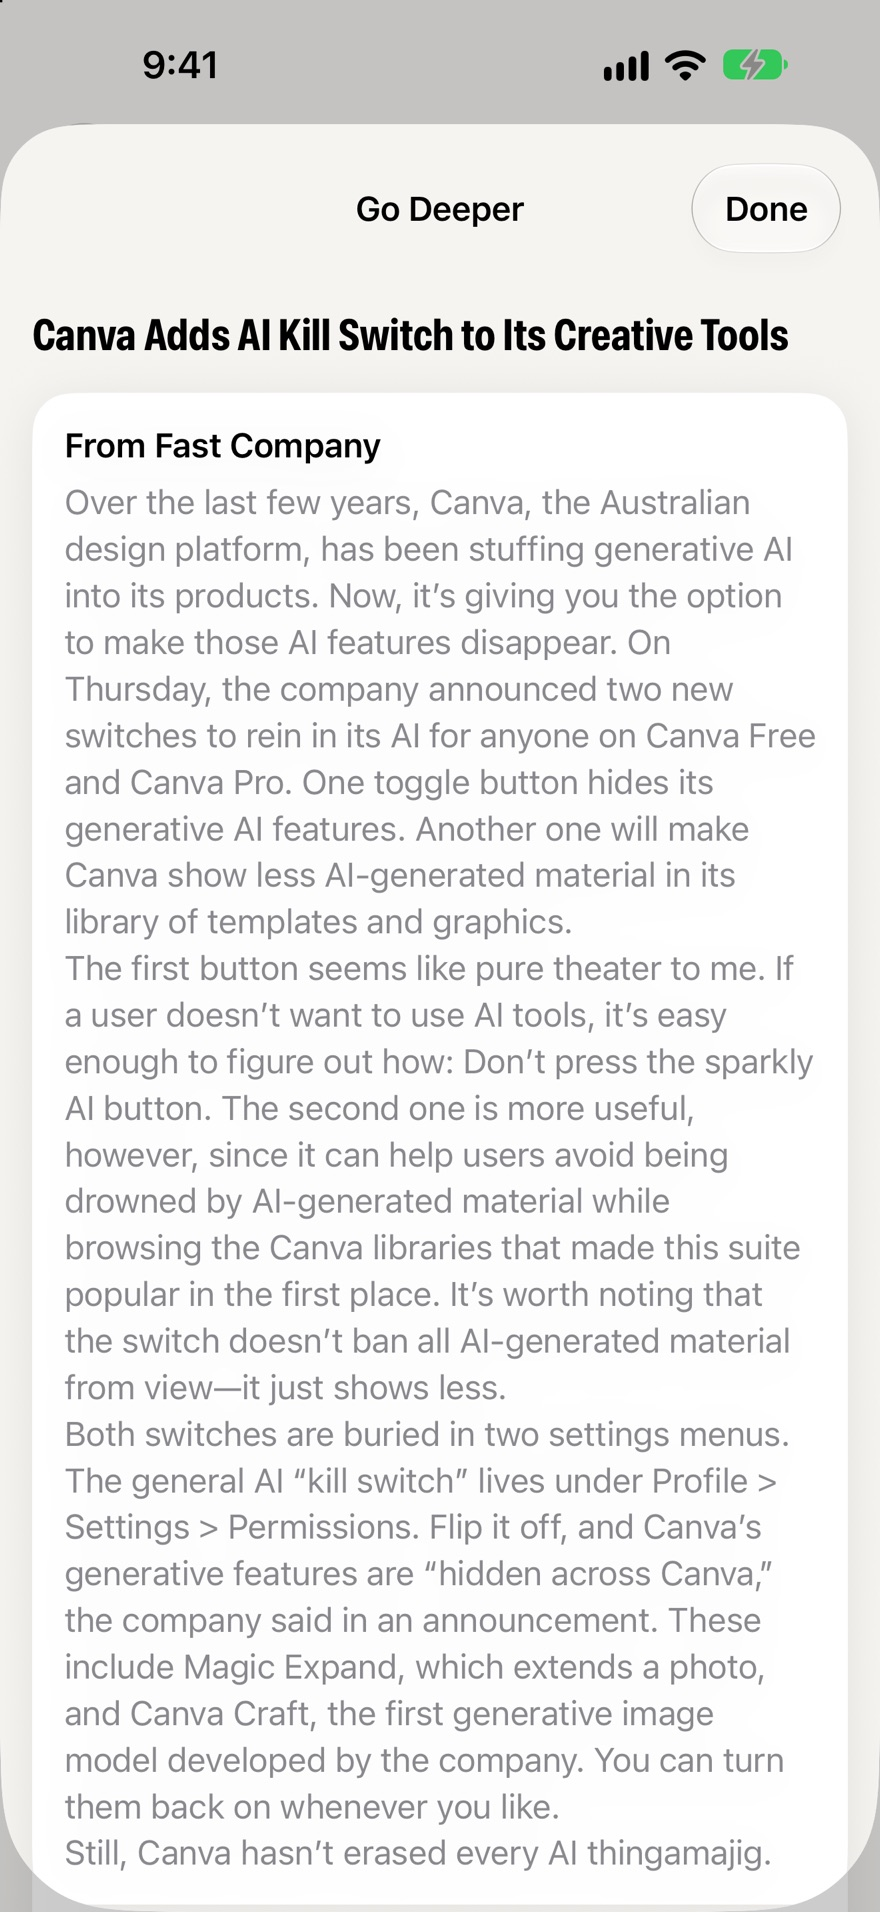
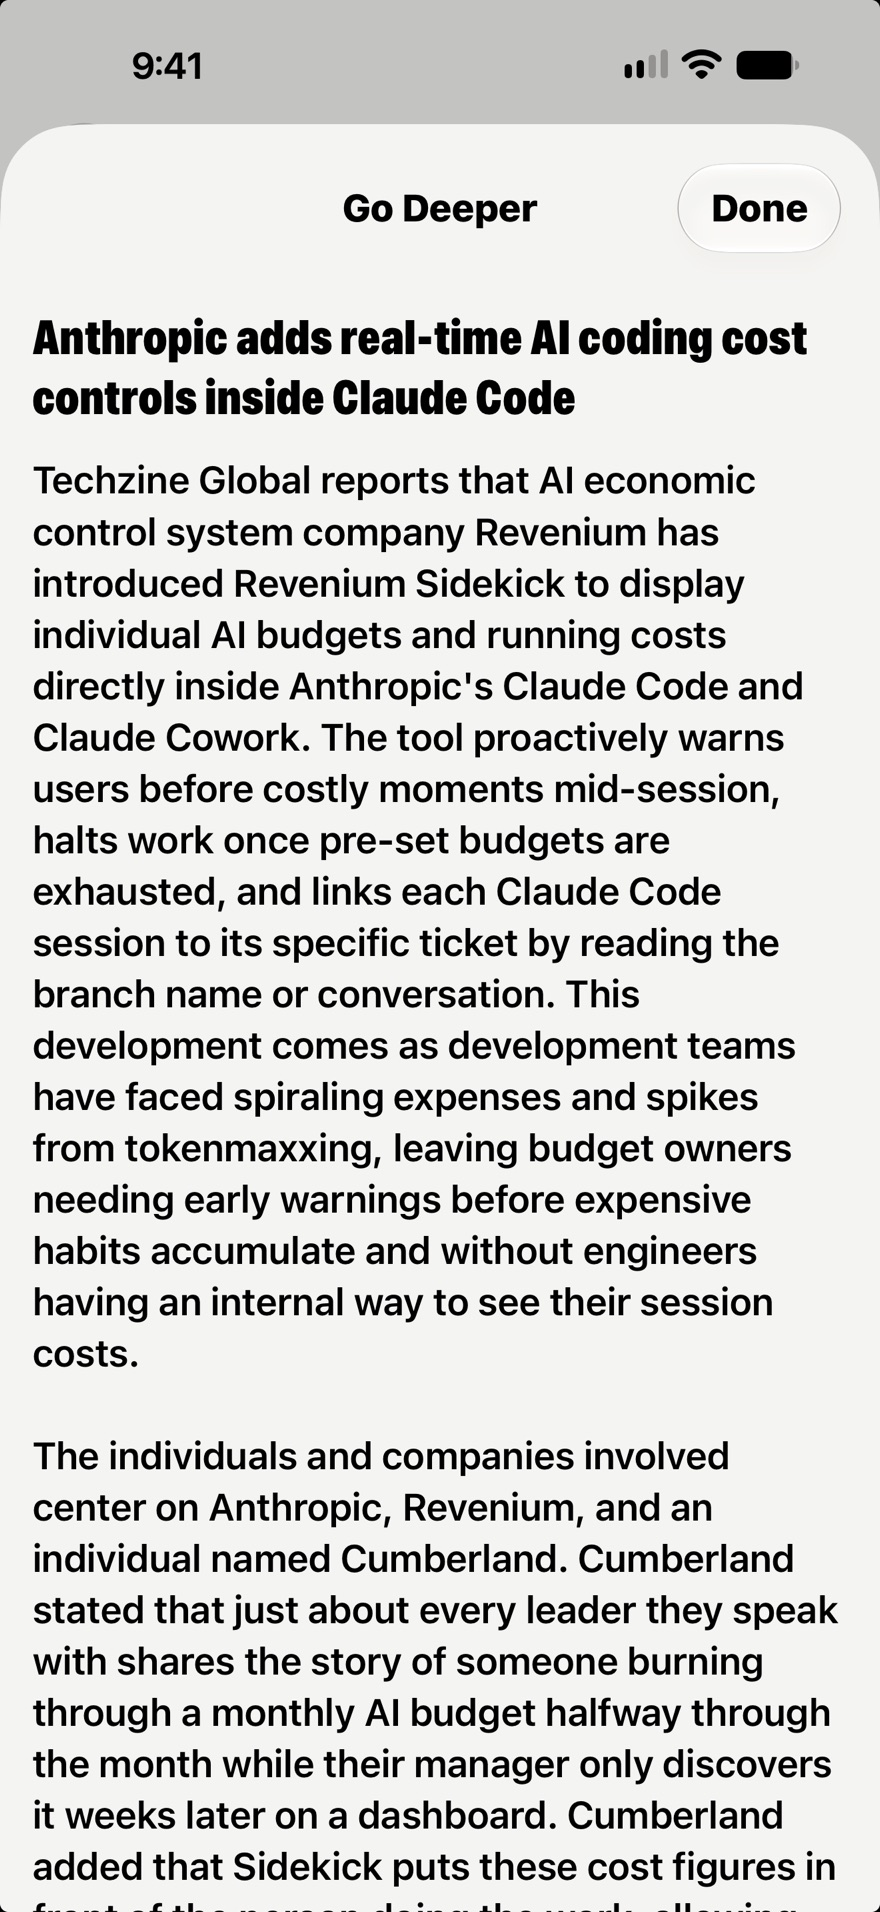
Go deeper picture shows the AI-written explanation

diff --git a/index.html b/index.html
@@ -183,7 +183,7 @@
           <h3>More on any one story, from its sources.</h3>
           <p>Tap <b>Go deeper</b> on an item and EarlyWire reads the article and other outlets covering it, then explains the story at more length: what happened, the background, who is involved and what comes next. It names the outlet for what only one reported, and says what the sources don't cover.</p>
           <ul><li>With your own AI key it writes one explanation. Without one it shows more of the articles' own words.</li><li>The sources are always listed, one tap away.</li></ul>
-          <div class="inline-phone phone"><div class="screen"><img src="assets/img/phone-24-go-deeper.jpg" alt="Go deeper: more of one story in the article's own words, with its source" loading="lazy" width="880" height="1912"></div></div>
+          <div class="inline-phone phone"><div class="screen"><img src="assets/img/phone-24-go-deeper.jpg" alt="Go deeper: an explanation of one story written with an AI key, naming the outlet it draws on" loading="lazy" width="880" height="1912"></div></div>
         </article>
         <article class="step" data-img="phone-25-big-picture">
           <div class="kick"><span class="num c-b">5</span><span class="dateline">The big picture</span></div>
